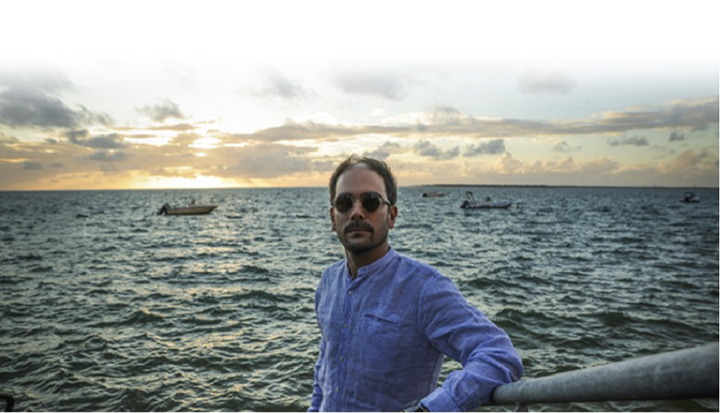
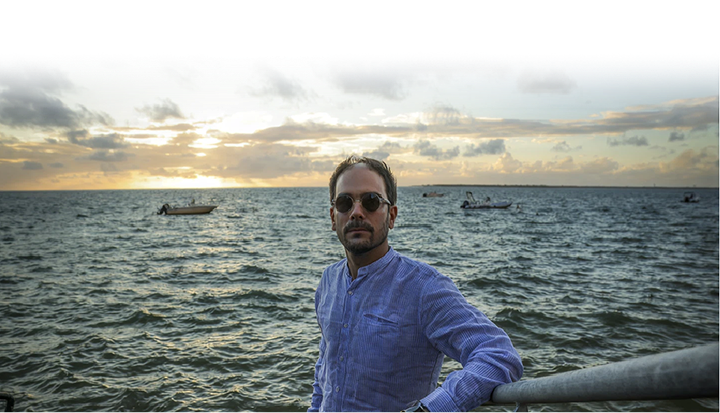
fix: update file permissions for image assets and refactor footer and workshop pages to use TextLinkWidget

diff --git a/lib/modules/media/presentation/widgets/interactive_music_player.dart b/lib/modules/media/presentation/widgets/interactive_music_player.dart
@@ -356,70 +356,83 @@ class _TrackListElementState extends State<_TrackListElement> {
   Widget build(BuildContext context) {
     final mobile = MediaQuery.of(context).size.width < mobileBreakPoint;
 
-    final trackElement = Container(
-      padding: const EdgeInsets.symmetric(vertical: 14.0, horizontal: 15),
-      foregroundDecoration: BoxDecoration(
-        border: Border(
-          bottom: BorderSide(
-            color: Colors.black.withValues(alpha: 0.4),
-            width: isHovering ? 1.2 : 1,
-          ),
-        ),
-        boxShadow: isHovering
-            ? [
-                BoxShadow(
-                  blurRadius: 17.0,
-                  spreadRadius: -5,
-                  offset: const Offset(0, 22),
-                  color: CustomColors.lightPinkAppColor.withValues(alpha: 0.2),
-                ),
-              ]
-            : [],
-      ),
-      decoration: BoxDecoration(
-        color: Color(0xFFF7EBF1),
-        boxShadow: isHovering
-            ? [
-                BoxShadow(
-                  color: Colors.black.withValues(alpha: 0.25),
-                  blurRadius: 5.0,
-                  spreadRadius: -5,
-                  offset: const Offset(0, 8.0),
-                ),
-              ]
-            : null,
-      ),
-      child: Row(
-        mainAxisAlignment: MainAxisAlignment.spaceBetween,
-        children: [
-          RobotoText(
-            text: widget.track.title.toUpperCase(),
-            color: Colors.black.withAlpha(widget.isCurrent ? 255 : 180),
-            fontWeight: widget.isCurrent ? FontWeight.w900 : FontWeight.w500,
-            fontSize: 14,
-          ),
-          RobotoText(
-            text: widget.track.duration.toUpperCase(),
-            color: Colors.black.withAlpha(widget.isCurrent ? 255 : 180),
-            fontWeight: widget.isCurrent ? FontWeight.w900 : FontWeight.w500,
-            fontSize: 10,
-          ),
-        ],
-      ),
-    );
-
     return Padding(
       padding: const EdgeInsets.symmetric(horizontal: 32, vertical: 3),
-      child: mobile
-          ? Material(
-              color: Color(0xFFF7EBF1),
-              child: InkWell(onTap: widget.onTap, child: trackElement),
-            )
-          : MouseRegion(
-              onEnter: (event) => setState(() => isHovering = true),
-              onExit: (event) => setState(() => isHovering = false),
-              child: GestureDetector(onTap: widget.onTap, child: trackElement),
+      child: MouseRegion(
+        onEnter: (event) => setState(() => isHovering = true),
+        onExit: (event) => setState(() => isHovering = false),
+        child: GestureDetector(
+          onTap: () async {
+            if (mobile) {
+              setState(() {
+                isHovering = true;
+              });
+              await Future.delayed(Durations.short2);
+            }
+            widget.onTap();
+            setState(() {
+              isHovering = false;
+            });
+          },
+          child: Container(
+            padding: const EdgeInsets.symmetric(vertical: 14.0, horizontal: 15),
+            foregroundDecoration: BoxDecoration(
+              border: Border(
+                bottom: BorderSide(
+                  color: Colors.black.withValues(alpha: 0.4),
+                  width: isHovering ? 1.2 : 1,
+                ),
+              ),
+              boxShadow: isHovering
+                  ? [
+                      BoxShadow(
+                        blurRadius: 17.0,
+                        spreadRadius: -5,
+                        offset: const Offset(0, 22),
+                        color: CustomColors.lightPinkAppColor.withValues(
+                          alpha: 0.2,
+                        ),
+                      ),
+                    ]
+                  : [],
             ),
+            decoration: BoxDecoration(
+              color: Color(0xFFF7EBF1),
+              boxShadow: isHovering
+                  ? [
+                      BoxShadow(
+                        color: Colors.black.withValues(alpha: 0.25),
+                        blurRadius: 5.0,
+                        spreadRadius: -5,
+                        offset: const Offset(0, 8.0),
+                      ),
+                    ]
+                  : null,
+            ),
+            child: Row(
+              mainAxisAlignment: MainAxisAlignment.spaceBetween,
+              children: [
+                RobotoText(
+                  text: widget.track.title.toUpperCase(),
+                  color: Colors.black.withAlpha(widget.isCurrent ? 255 : 180),
+                  fontWeight: widget.isCurrent
+                      ? FontWeight.w900
+                      : FontWeight.w500,
+                  fontSize: 14,
+                ),
+                RobotoText(
+                  text: widget.track.duration.toUpperCase(),
+                  color: Colors.black.withAlpha(widget.isCurrent ? 255 : 180),
+                  fontWeight: widget.isCurrent
+                      ? FontWeight.w900
+                      : FontWeight.w500,
+                  fontSize: 10,
+                ),
+              ],
+            ),
+          ),
+        ),
+      ),
     );
   }
 }

diff --git a/lib/modules/workshop/presentation/pages/workshop_page_mobile.dart b/lib/modules/workshop/presentation/pages/workshop_page_mobile.dart
@@ -97,32 +97,11 @@ class _WorkshopPageMobileState extends State<WorkshopPageMobile> {
                                     'assets/icons/down_icon.svg',
                                   ),
                                 ),
-                                MouseRegion(
-                                  cursor: SystemMouseCursors.click,
-                                  child: GestureDetector(
-                                    onTap: () {
-                                      _scroolToTarget();
-                                    },
-                                    child: DecoratedBox(
-                                      decoration: BoxDecoration(
-                                        border: Border(
-                                          bottom: BorderSide(
-                                            color: Color(0xFFF0B3E7),
-                                            width: 2,
-                                          ),
-                                        ),
-                                      ),
-                                      child: Padding(
-                                        padding: EdgeInsets.only(bottom: 2),
-                                        child: RobotoText(
-                                          text: 'Workshops availables',
-                                          fontSize: 14,
-                                          fontWeight: FontWeight.bold,
-                                          color: Color(0xFFF0B3E7),
-                                        ),
-                                      ),
-                                    ),
-                                  ),
+                                TextLinkWidget(
+                                  onTap: () {
+                                    _scroolToTarget();
+                                  },
+                                  text: 'Workshops availables',
                                 ),
                               ],
                             ),
@@ -232,41 +211,15 @@ class _WorkshopPageMobileState extends State<WorkshopPageMobile> {
                                           Align(
                                             alignment:
                                                 AlignmentGeometry.centerRight,
-                                            child: MouseRegion(
-                                              cursor: SystemMouseCursors.click,
-                                              child: GestureDetector(
-                                                onTap: () {
-                                                  launchUrl(
-                                                    Uri.parse(
-                                                      'https://stanfordjazz.org/stanford-jazz-festival/',
-                                                    ),
-                                                  );
-                                                },
-                                                child: DecoratedBox(
-                                                  decoration: BoxDecoration(
-                                                    border: Border(
-                                                      bottom: BorderSide(
-                                                        color: Color(
-                                                          0xFFF0B3E7,
-                                                        ),
-                                                        width: 2,
-                                                      ),
-                                                    ),
+                                            child: TextLinkWidget(
+                                              onTap: () {
+                                                launchUrl(
+                                                  Uri.parse(
+                                                    'https://stanfordjazz.org/stanford-jazz-festival/',
                                                   ),
-                                                  child: Padding(
-                                                    padding: EdgeInsets.only(
-                                                      bottom: 2,
-                                                    ),
-                                                    child: RobotoText(
-                                                      text: 'See more about it',
-                                                      fontSize: 14,
-                                                      fontWeight:
-                                                          FontWeight.bold,
-                                                      color: Color(0xFFF0B3E7),
-                                                    ),
-                                                  ),
-                                                ),
-                                              ),
+                                                );
+                                              },
+                                              text: 'See more about it',
                                             ),
                                           ),
                                         ],

diff --git a/lib/core/presentation/widgets/footer/footer_mobile.dart b/lib/core/presentation/widgets/footer/footer_mobile.dart
@@ -76,9 +76,10 @@ class FooterMobile extends StatelessWidget {
                     );
                   },
                   child: Padding(
-                    padding: const EdgeInsets.symmetric(
-                      vertical: 28,
-                      horizontal: 15,
+                    padding: const EdgeInsets.only(
+                      top: 28,
+                      bottom: 28,
+                      left: 30,
                     ),
                     child: Row(
                       children: [

diff --git a/lib/modules/discography/presentation/pages/discography_page_mobile.dart b/lib/modules/discography/presentation/pages/discography_page_mobile.dart
@@ -70,7 +70,10 @@ class DiscographyPageMobile extends StatelessWidget {
                                     ],
                                   ),
                                 ),
-                                SeparatorsLines(),
+                                SeparatorsLines(
+                                  invertedColors: true,
+                                  invertedWidths: true,
+                                ),
                               ],
                             ),
                           ],

diff --git a/lib/modules/discography/presentation/widgets/record_widget.dart b/lib/modules/discography/presentation/widgets/record_widget.dart
@@ -55,7 +55,7 @@ class _RecordWidgetState extends State<RecordWidget> {
             child: ClipRRect(
               borderRadius: BorderRadius.circular(16),
               child: AnimatedCrossFade(
-                duration: Durations.medium2,
+                duration: Durations.short2,
                 crossFadeState: _isHovering
                     ? CrossFadeState.showSecond
                     : CrossFadeState.showFirst,